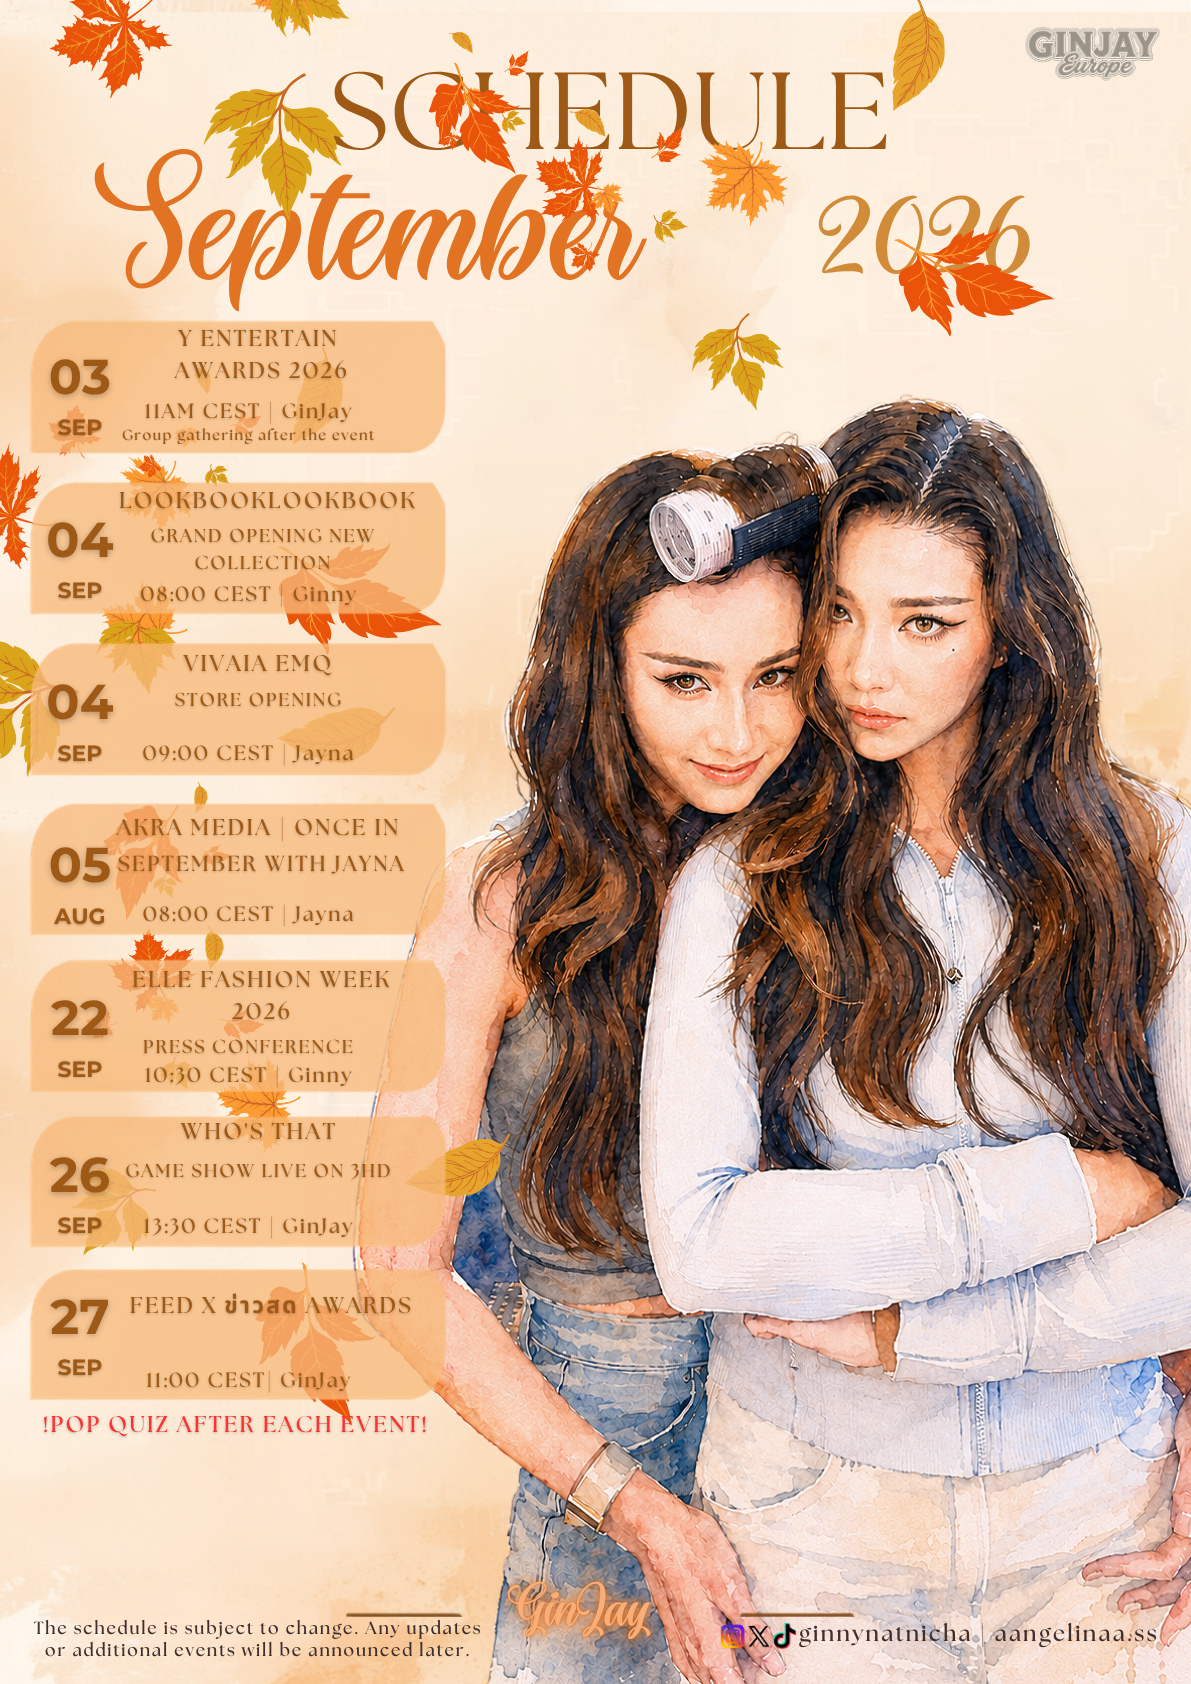
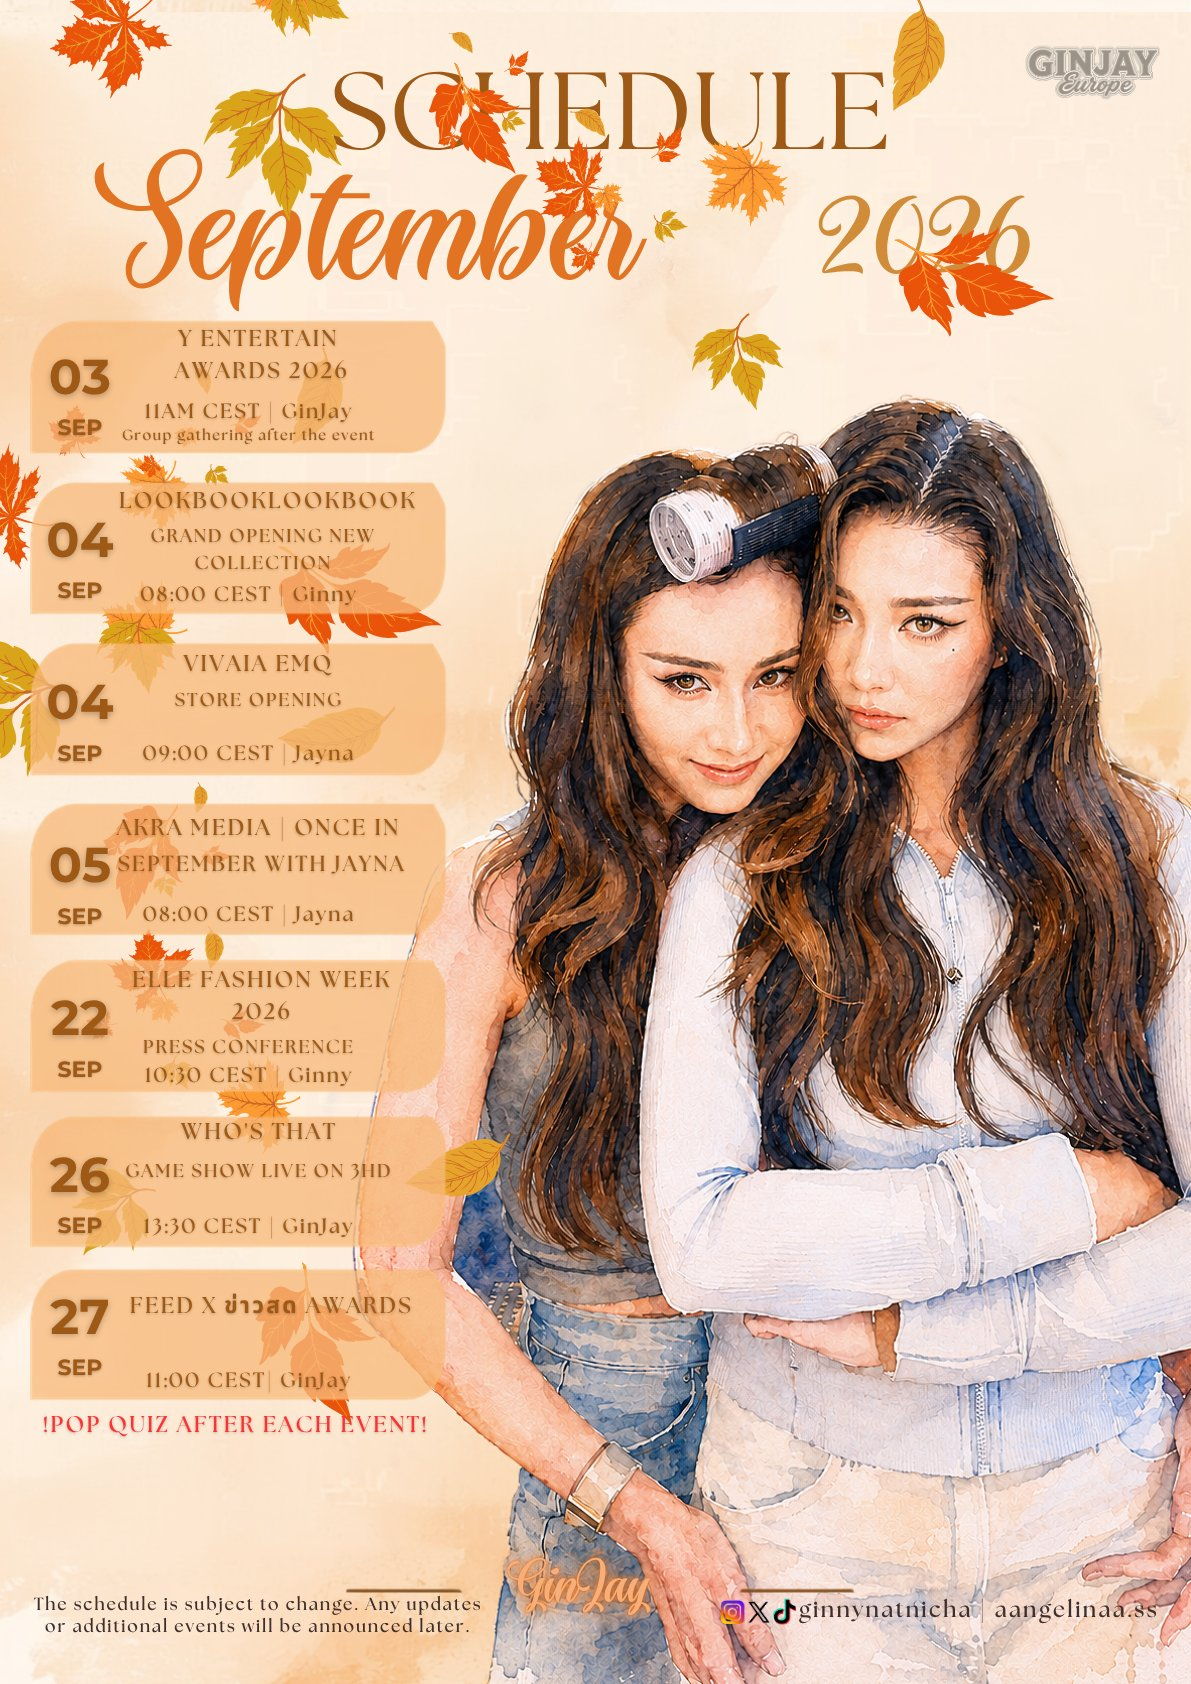
Update schedule to corrected September 2026 poster

diff --git a/src/data/schedule.js b/src/data/schedule.js
@@ -10,7 +10,7 @@ export const currentSchedule = {
       id: 1,
       date: "3 September",
       title: "Y Entertain Awards 2026",
-      artist: "Ginny & Jayna",
+      artist: "GinJay",
       type: "Event",
       time: "11:00 CEST",
       details: ["Group gathering after the event"],
@@ -54,8 +54,8 @@ export const currentSchedule = {
     {
       id: 6,
       date: "26 September",
-      title: "Who's That – Game Show Live on 3HD",
-      artist: "Ginny & Jayna",
+      title: "WHO'S THAT – Game Show Live on 3HD",
+      artist: "GinJay",
       type: "TV event",
       time: "13:30 CEST",
       details: [],
@@ -63,11 +63,11 @@ export const currentSchedule = {
     {
       id: 7,
       date: "27 September",
-      title: "FEED x Khaosod Awards",
-      artist: "Ginny & Jayna",
+      title: "FEED X ข่าวสด AWARDS",
+      artist: "GinJay",
       type: "Awards",
       time: "11:00 CEST",
-      details: [],
+      details: ["Pop quiz after each event!"],
     },
   ],
 };
